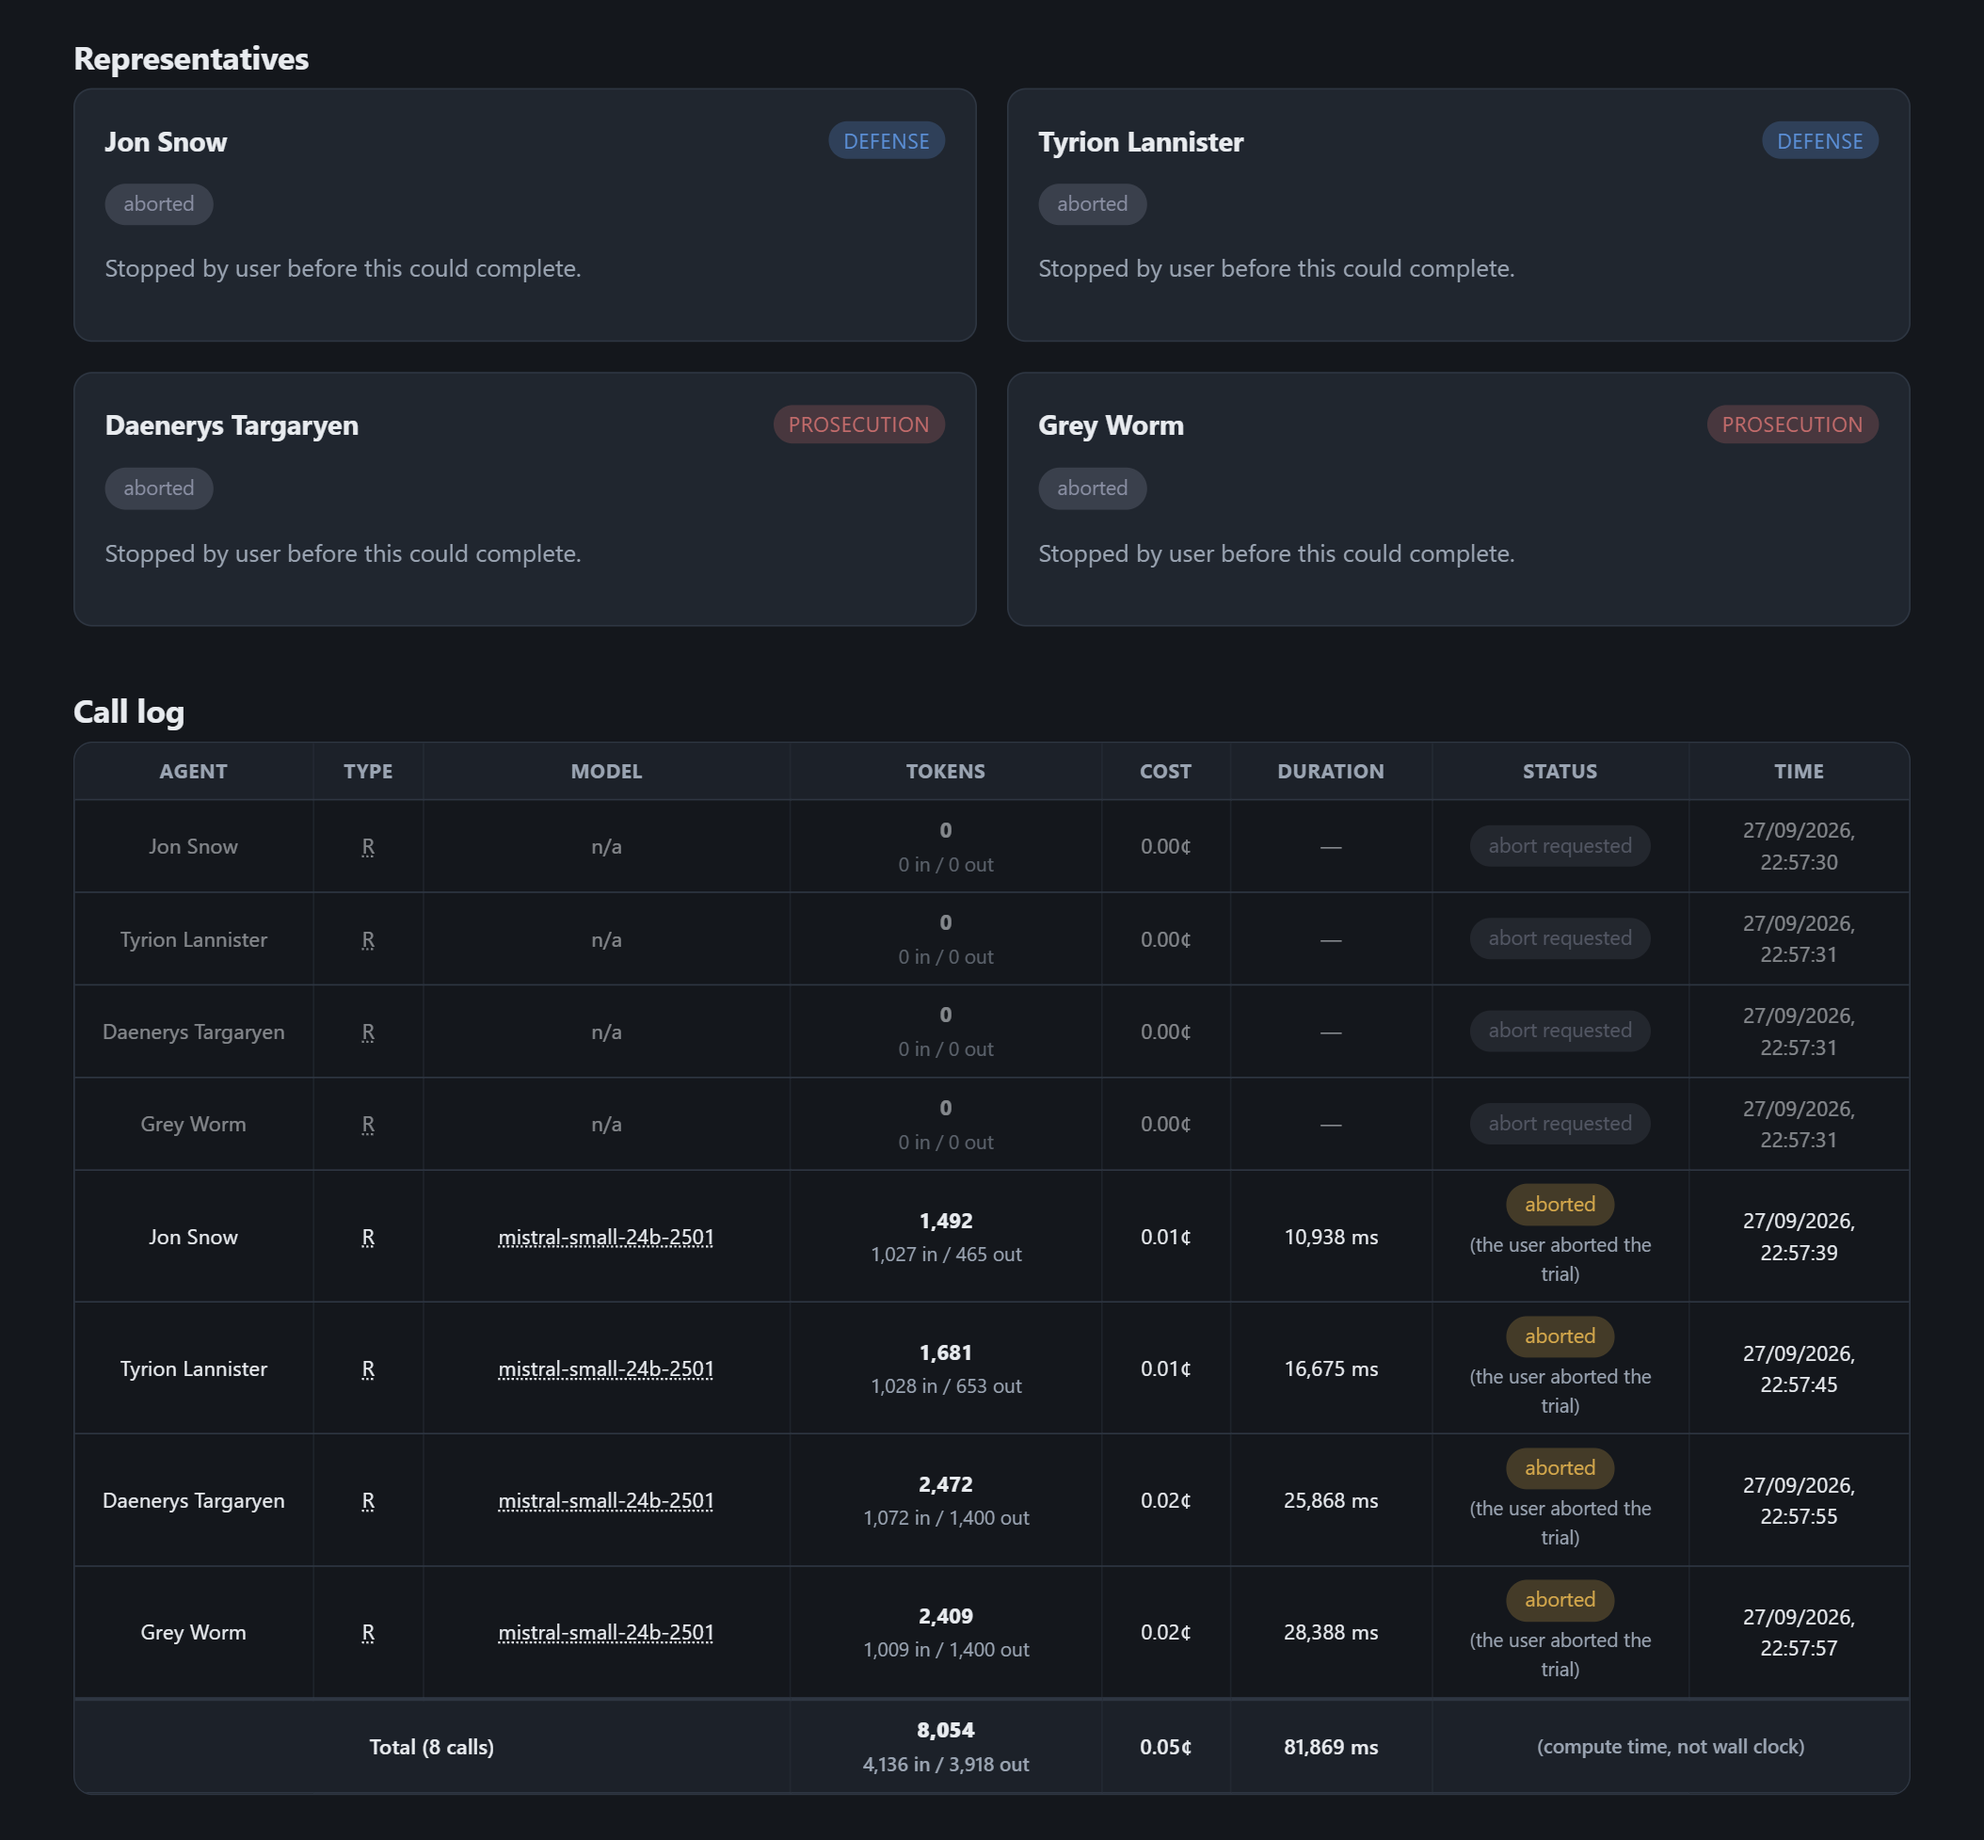
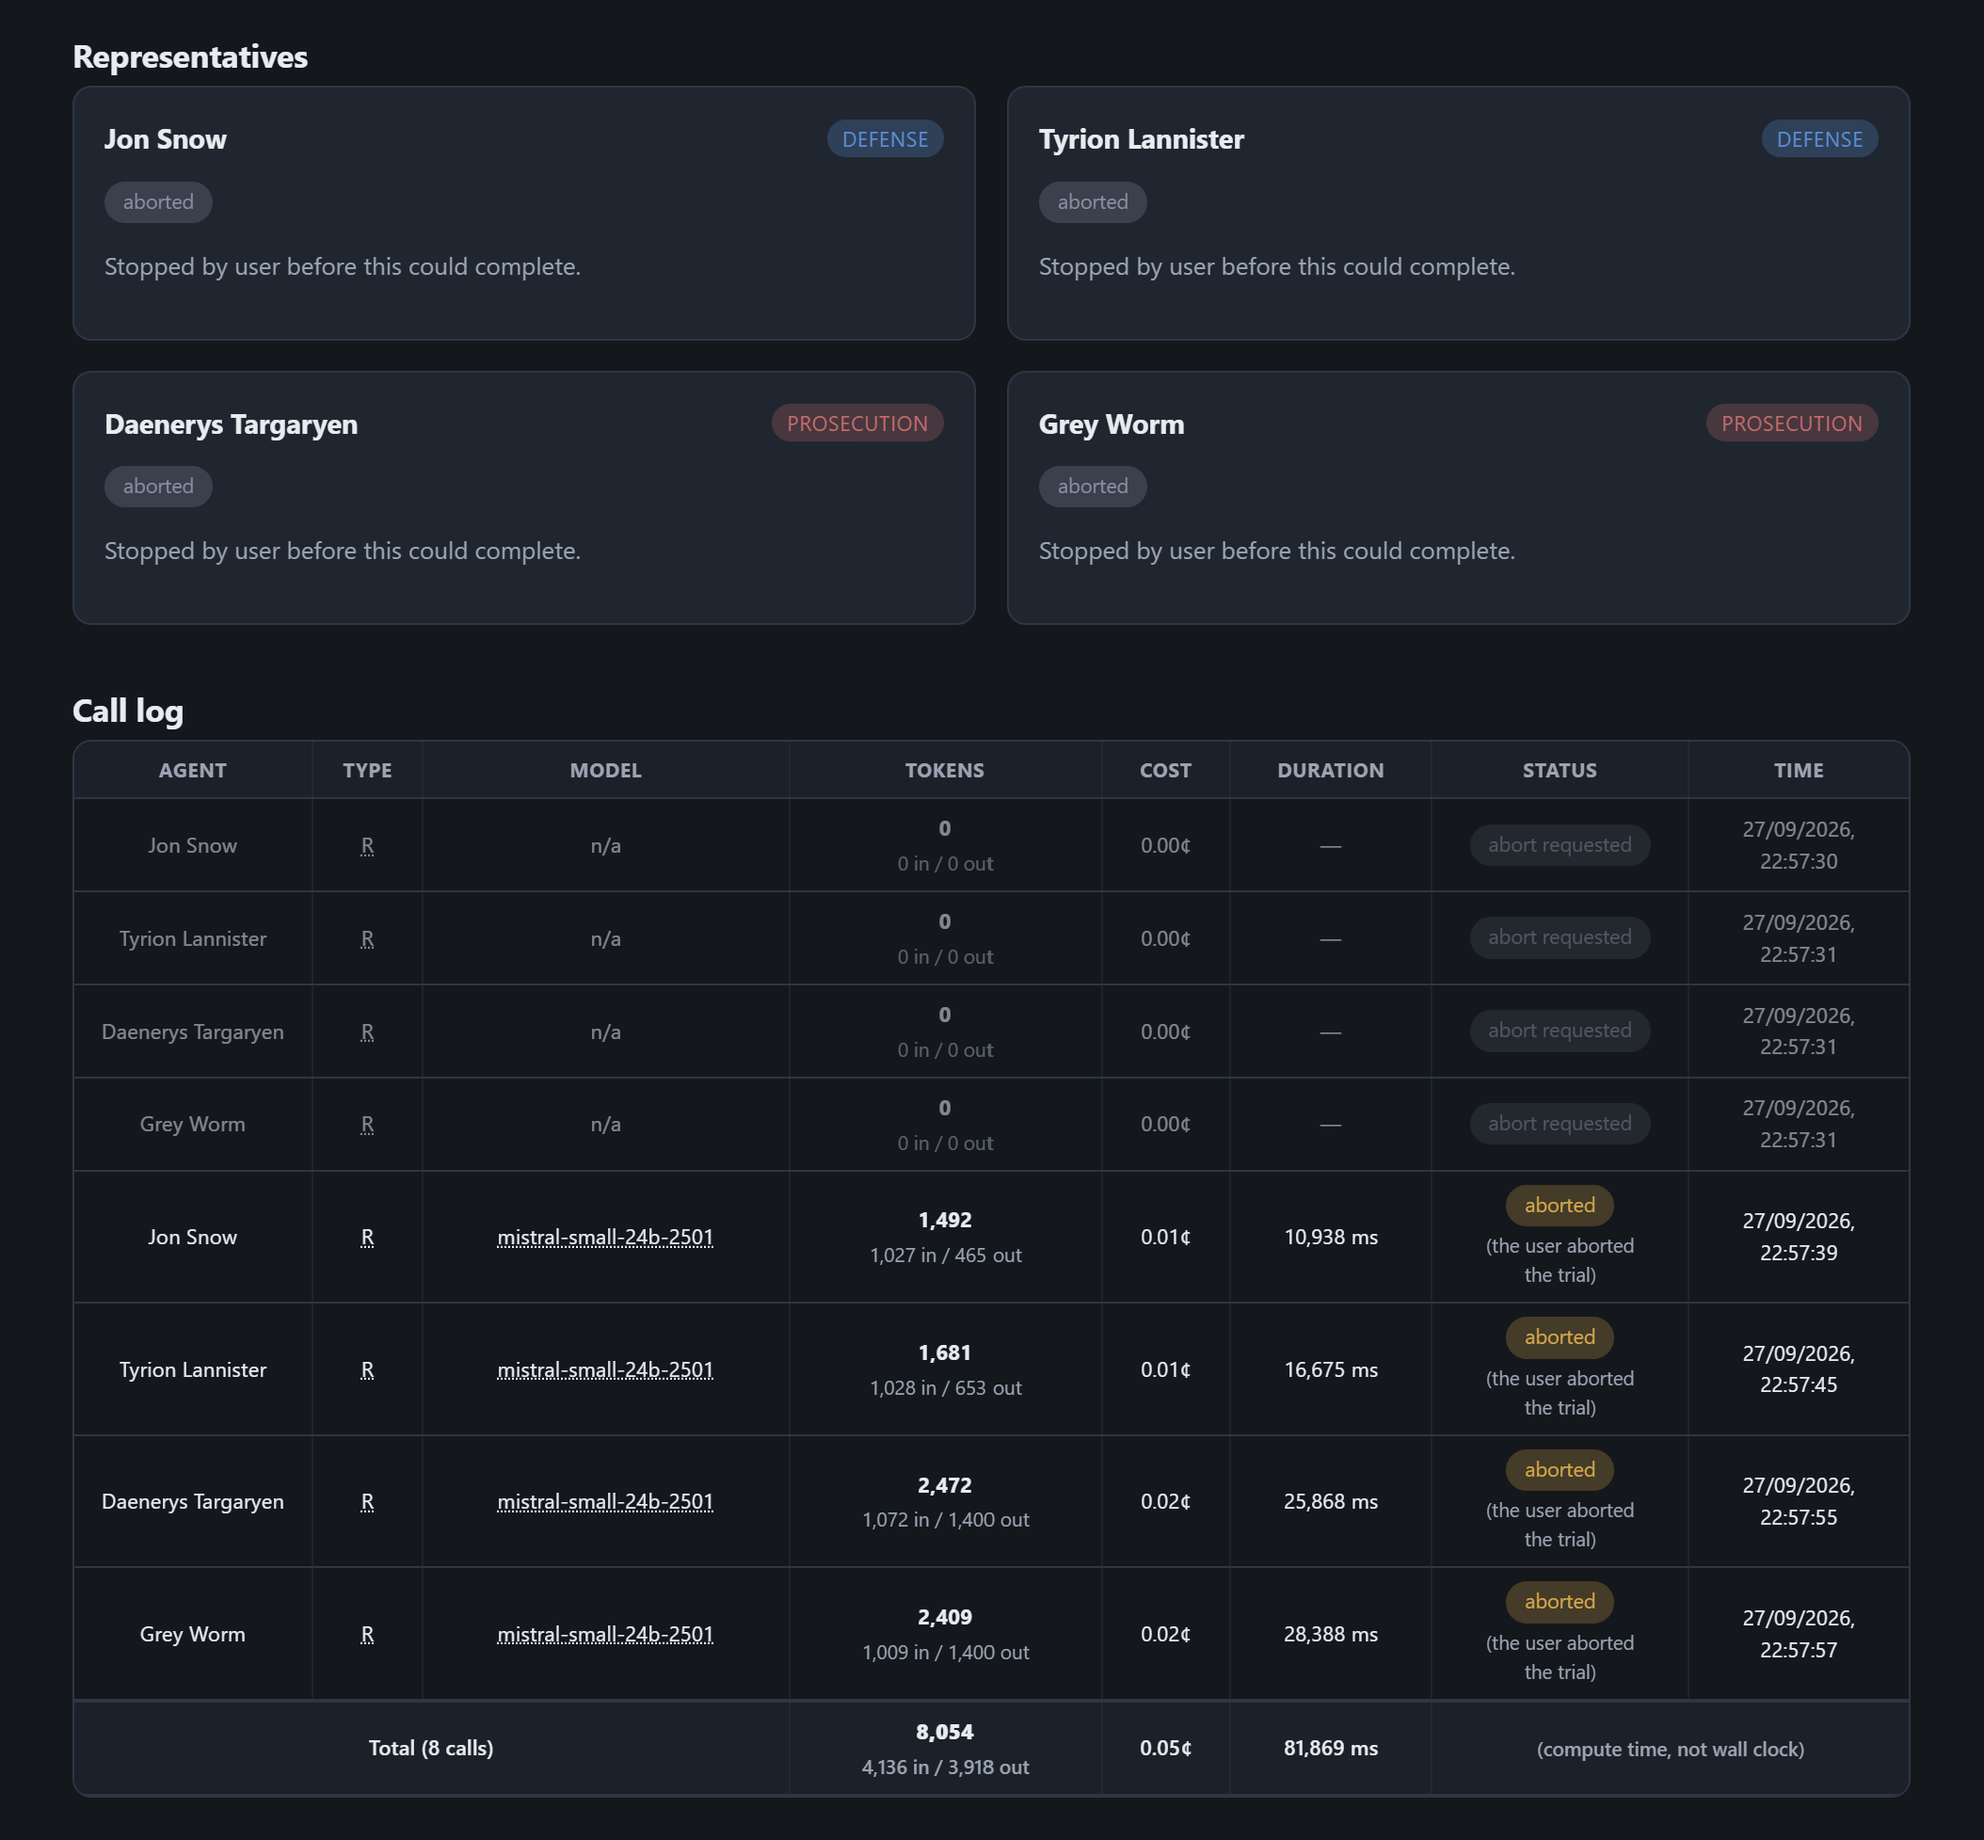
Re-capture README's aborted-trial screenshot with the captions wrapping evenly
screenshots/readme-4-aborted-trial.png shows trial 298f38b4 as before, at
the same size, 2108x1955, now with the four aborted rows' captions wrapped
by 9b7d8b0: "(the user aborted / the trial)". Compared with the capture it
replaces after alignment: the cards and the table keep their widths to a
pixel, and the table's body laid out about 3 image pixels taller, so the
heading and cards sit 2 pixels higher, the table's bottom edge 2 pixels
lower and the left edges 1 pixel further left - a CSS pixel at most.
Every word, figure, badge and border is otherwise the same.

CLAUDE.md: the 2026-10-13 entry records the re-capture, and the
2026-10-06 entry on the screenshot points to it. README's caption is
unchanged.

npm test, npm run typecheck and npm run check-render pass.

diff --git a/CLAUDE.md b/CLAUDE.md
@@ -4741,7 +4741,9 @@ end, logged with its real tokens and cost and not retried or saved - two
 repeated a sentence, two hit the token cap. The trial ran at 19:57 UTC, after
 that day's abort fixes (`82f7c97`, `a3fe0d8`, `e464938`), so its rows are what
 the app writes today; every figure was checked against them (8,054 tokens,
-0.05¢ of a stored 0.0521¢, 81,869 ms).
+0.05¢ of a stored 0.0521¢, 81,869 ms). *(Re-captured on 2026-10-13, after
+the captions began to wrap evenly - see "2026-10-13: the call log's
+captions wrap evenly".)*
 
 **README's fifth screenshot: a trial in progress (same day).**
 `screenshots/readme-5-in-progress.png`, taken by the user from local
@@ -5121,6 +5123,20 @@ pixel by pixel after alignment:
   one image pixel, half a CSS pixel at the capture's scale, since the table
   laid out a pixel narrower and a pixel taller than before. README's caption
   for it is unchanged.
+
+**README's aborted-trial screenshot re-captured the same way (same day).**
+`screenshots/readme-4-aborted-trial.png` shows trial `298f38b4` as before, at
+the same size, 2108×1955, and was compared with the capture it replaces in
+the same way:
+
+- the four `aborted` rows' captions now read "(the user aborted / the
+  trial)";
+- the cards keep their width and the table its width to a pixel, but the
+  table's body laid out about 3 image pixels taller, so with the crop
+  chosen the heading and cards sit 2 pixels higher and the table's bottom
+  edge 2 pixels lower than before, and the left edges 1 pixel further left -
+  a CSS pixel at most. Every word, figure, badge and border is otherwise the
+  same, and README's caption for it is unchanged.
 
 ## Operational notes
 
